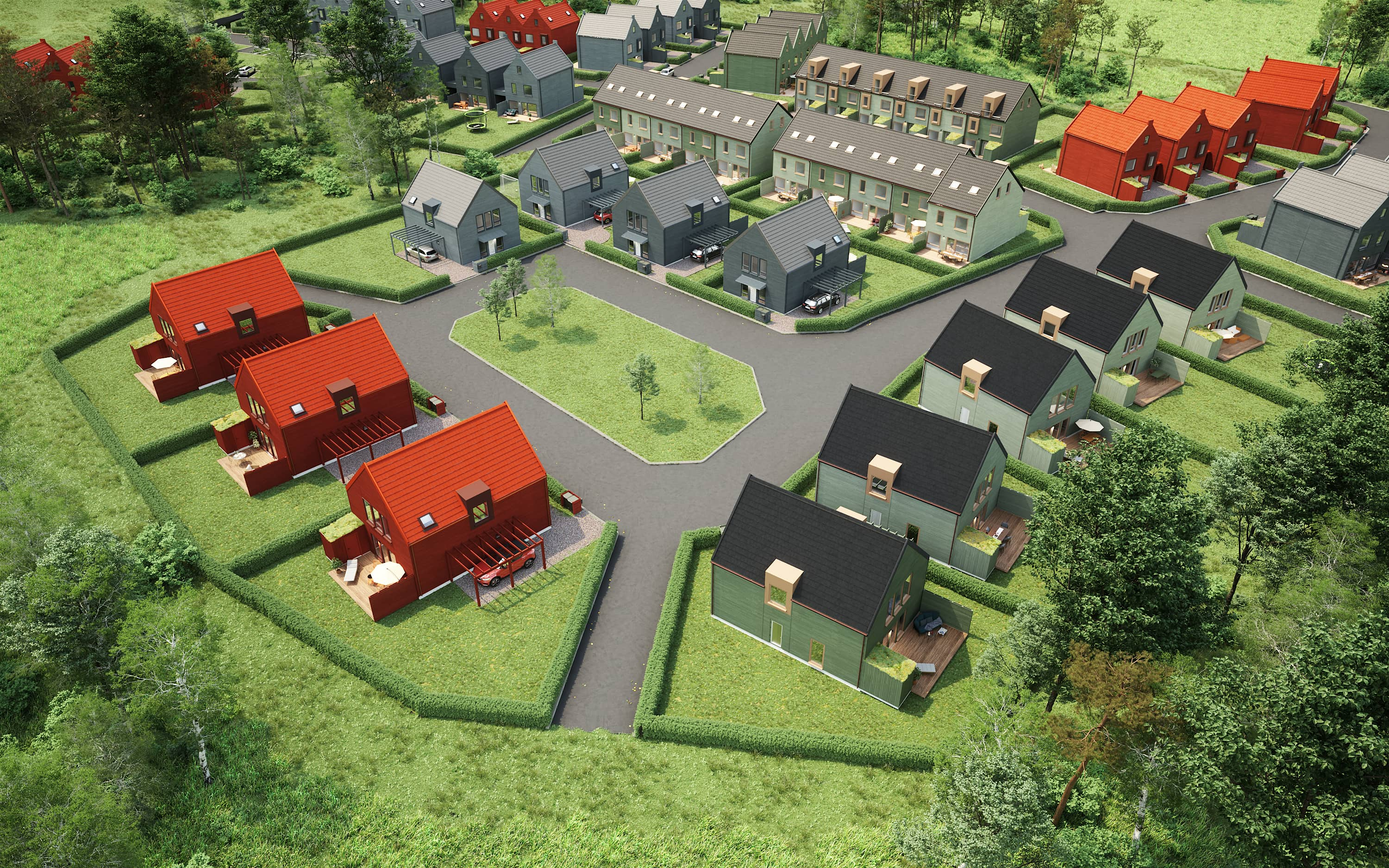
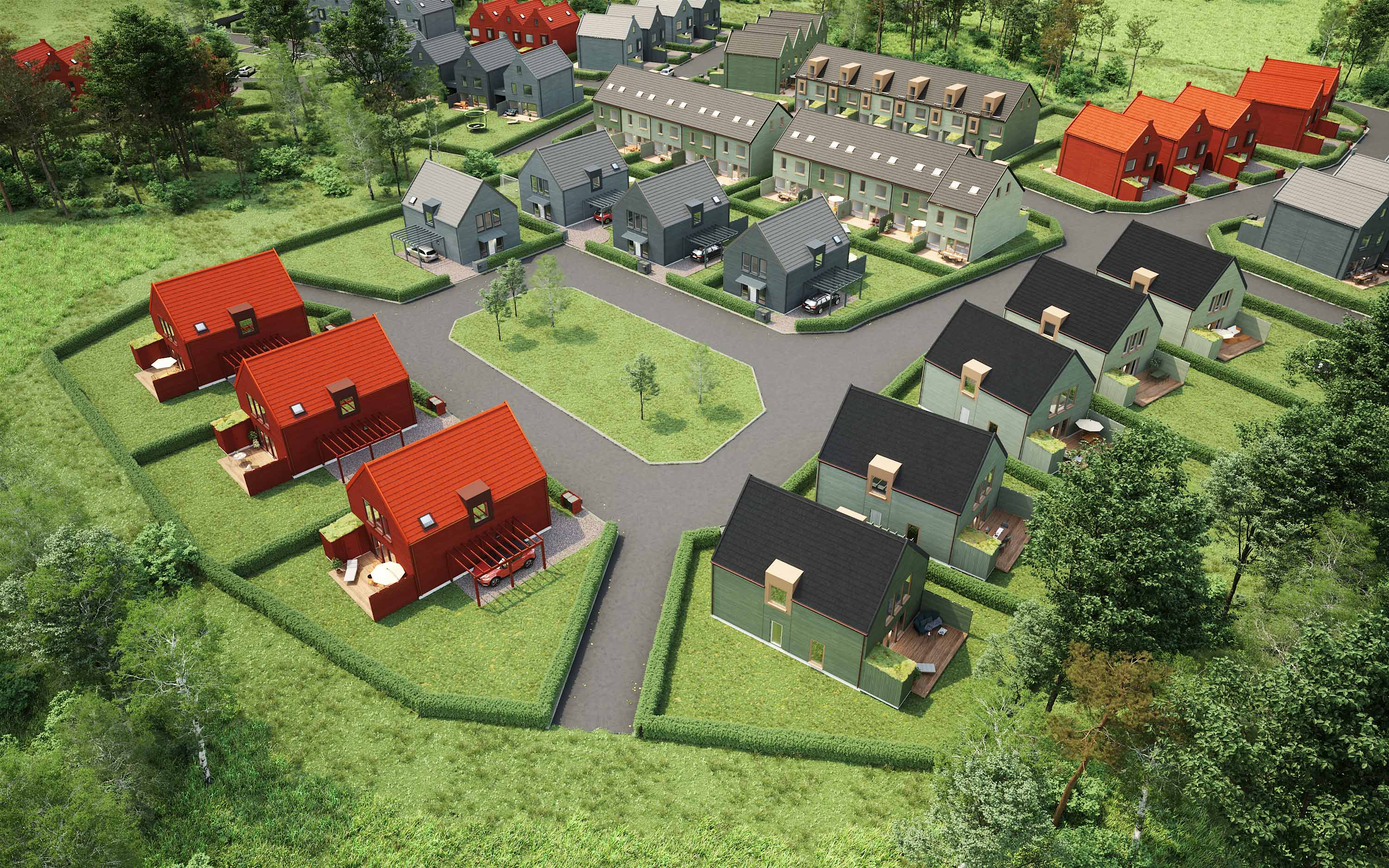
Added optemized pics

diff --git a/Bostadsvaljare/Data/HouseType.cs b/Bostadsvaljare/Data/HouseType.cs
@@ -48,17 +48,17 @@ namespace Bostadsvaljare.Data
                 data = new Dictionary<string, HouseType> {
                     { "G3K", new HouseType {
                         Floorplans = new List<Floorplan> {
-                            new Floorplan { Source = "IMG/plan1.png", Rooms = new List<Floorplan.Room> {
+                            new Floorplan { Source = "IMG/plan1.jpg", Rooms = new List<Floorplan.Room> {
                                 new Floorplan.Room { RoomID = 0, Coords = new Vector2 { X = 700, Y = 120 } },
                                 new Floorplan.Room { RoomID = 3, Coords = new Vector2 { X = 700, Y = 300 } },
                                 new Floorplan.Room { RoomID = 4, Coords = new Vector2 { X = 540, Y = 300 } },
                                 new Floorplan.Room { RoomID = 1, Coords = new Vector2 { X = 600, Y = 170 } },
                                 new Floorplan.Room { RoomID = 2, Coords = new Vector2 { X = 430, Y = 300 } },
                             }},
-                            new Floorplan { Source = "IMG/plan2.png", Rooms = new List<Floorplan.Room> {
+                            new Floorplan { Source = "IMG/plan2.jpg", Rooms = new List<Floorplan.Room> {
                                 
                             }},
-                            new Floorplan { Source = "IMG/plan3.png", Rooms = new List<Floorplan.Room> {
+                            new Floorplan { Source = "IMG/plan3.jpg", Rooms = new List<Floorplan.Room> {
                                 new Floorplan.Room { RoomID = 5, Coords = new Vector2 { X = 180, Y = 220 } },
                                 new Floorplan.Room { RoomID = 6, Coords = new Vector2 { X = 300, Y = 250 } },
                                 new Floorplan.Room { RoomID = 7, Coords = new Vector2 { X = 520, Y = 220 } },

diff --git a/Bostadsvaljare/Data/HouseMap.cs b/Bostadsvaljare/Data/HouseMap.cs
@@ -7,14 +7,14 @@ namespace Bostadsvaljare.Data
     {
         private static Dictionary<string, List<HouseMap>> data;
         private static readonly Dictionary<string, string> imageToVariant = new Dictionary<string, string> {
-            { "IMG/Ext1-5area.png", "view-1" },
+            { "IMG/Ext1-5area.jpg", "view-1" },
             { "IMG/Morgon.jpg", "view-1" },
             { "IMG/Natt.jpg", "view-1" },
             { "IMG/Oversikt_V2Optimerad.jpg", "view-2" },
-            { "IMG/Ext1-5redAndgrey.png", "view-3" },
-            { "IMG/Ext1-5red.png", "view-3" },
-            { "IMG/Ext1-5grey.png", "view-3" },
-            { "IMG/Extra_G3K(t).png", "view-1" }
+            { "IMG/Ext1-5redAndgrey.jpg", "view-3" },
+            { "IMG/Ext1-5red.jpg", "view-3" },
+            { "IMG/Ext1-5grey.jpg", "view-3" },
+            { "IMG/Extra_G3K(t).jpg", "view-1" }
         };
 
         public int ID { get; set; }
